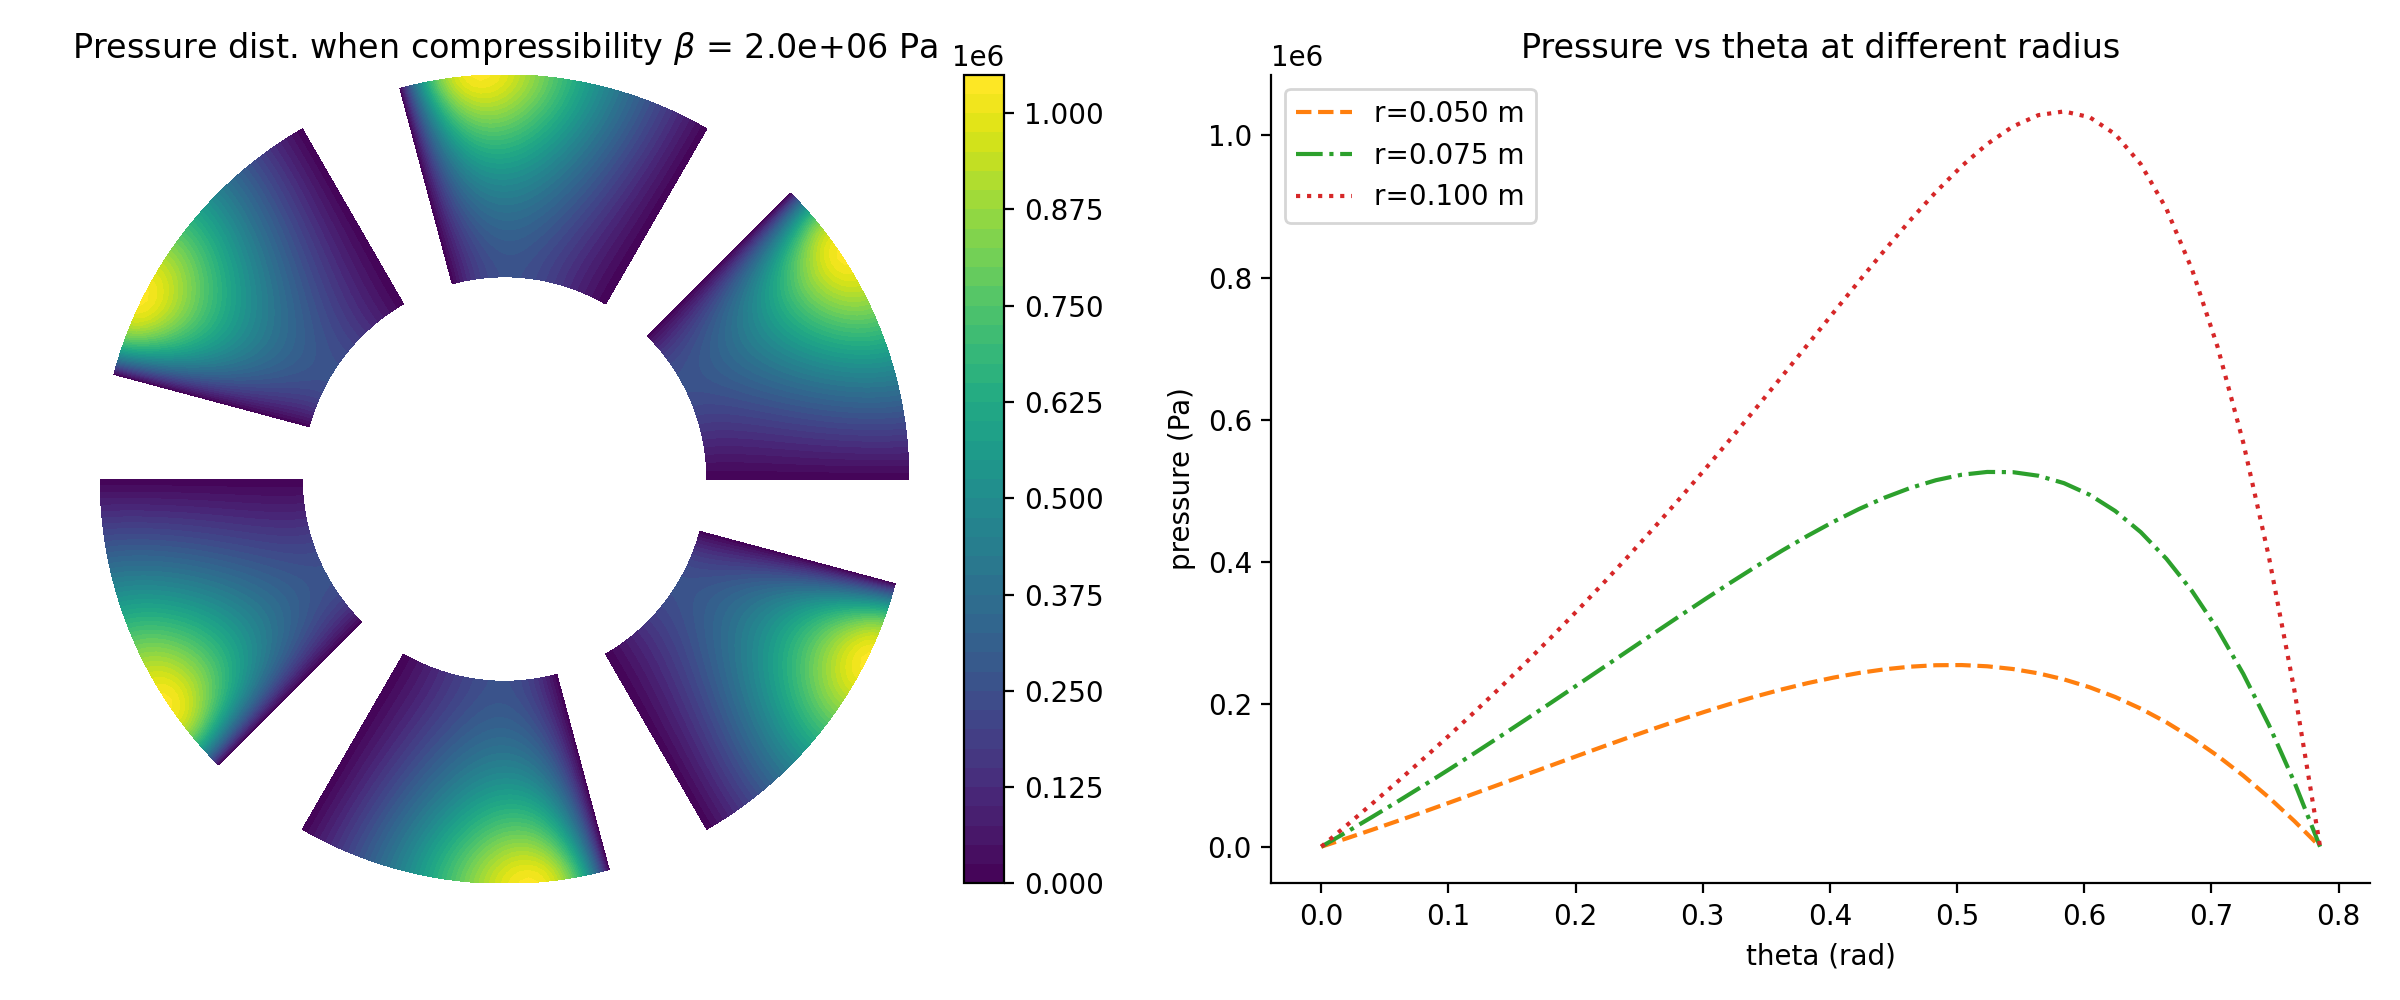
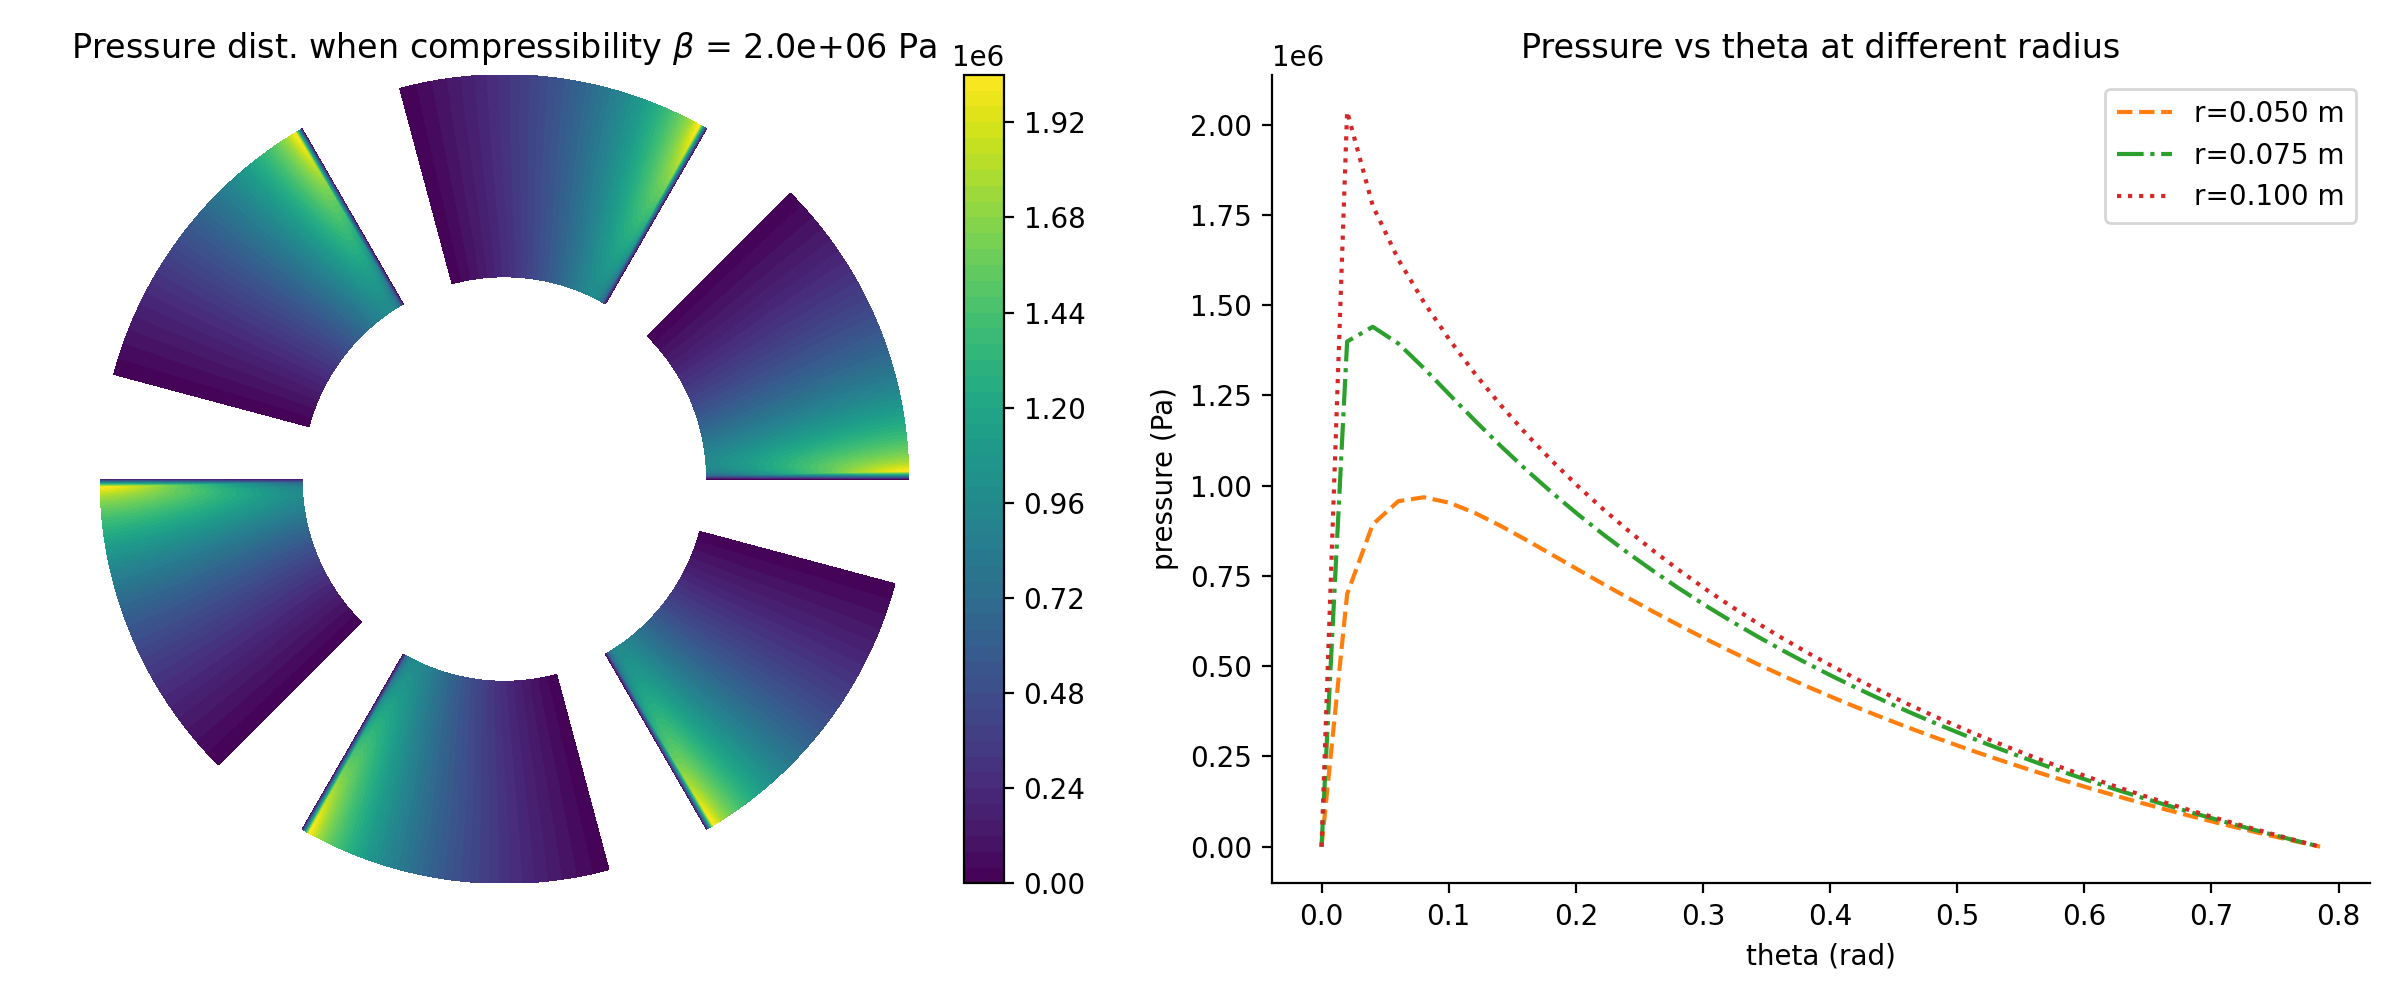
Changed direction, fixed n_sector

diff --git a/src/compressible_flow.py b/src/compressible_flow.py
@@ -73,7 +73,7 @@ def compressible_flow(
     dtheta = theta[1] - theta[0]
     L = r_out * Delta_theta
 
-    h_r_theta = lambda r, theta: hL + (hT - hL) * (r * theta / L)
+    h_r_theta = lambda r, theta: hT + (hL - hT) * (r * theta / L)
     idx = lambda i, j: i * Ntheta + j
 
     TH, RR = np.meshgrid(theta, r)
@@ -81,7 +81,7 @@ def compressible_flow(
     H3 = H**3  # Precompute H^3
 
     coef_const = 1 / (12 * mu)
-    dh_dtheta = lambda radius: (hT - hL) * radius / (r_out * Delta_theta)
+    dh_dtheta = lambda radius: (hL - hT) * radius / (r_out * Delta_theta)
     rho_of_p = lambda p: rho_a * np.exp((p - p_a) / beta)
 
     N = Nr * Ntheta
@@ -223,8 +223,8 @@ def compressible_flow(
     # Plot and save results
     fig = plt.figure(figsize=(12, 5))
     ax1 = fig.add_subplot(1, 2, 1)
-    for i in range(6):
-        TH, RR = np.meshgrid(theta + i * np.pi / 3, r)
+    for i in range(n_sector):
+        TH, RR = np.meshgrid(theta + i * 2 * np.pi / n_sector, r)
         X = RR * np.cos(TH)
         Y = RR * np.sin(TH)
         cf = ax1.contourf(
@@ -268,5 +268,5 @@ def compressible_flow(
 
 
 if __name__ == "__main__":
-    compressible_flow(beta=1e6, out_figure="compressible_flow.png")
+    compressible_flow(beta=1e7, out_figure="compressible_flow.png")
     compressible_flow(beta=2e6, out_figure="compressible_flow_2.png")

diff --git a/src/pressure_distribution.py b/src/pressure_distribution.py
@@ -55,7 +55,7 @@ def pressure_distribution(
     dtheta = theta[1] - theta[0]
     L = r_out * Delta_theta
 
-    h_r_theta = lambda r, theta: hL + (hT - hL) * (r * theta / L)
+    h_r_theta = lambda r, theta: hT + (hL - hT) * (r * theta / L)
     idx = lambda i, j: i * Ntheta + j
 
     TH, RR = np.meshgrid(theta, r)
@@ -70,7 +70,7 @@ def pressure_distribution(
     b = np.zeros(N)
 
     coef_const = 1 / (12 * mu)
-    dh_dtheta = lambda radius: (hT - hL) * radius / (r_out * Delta_theta)
+    dh_dtheta = lambda radius: (hL - hT) * radius / (r_out * Delta_theta)
 
     for i in range(Nr):
         ri = r[i]
@@ -159,8 +159,8 @@ def pressure_distribution(
 
     # 2D contour in polar coords mapped to Cartesian
     ax1 = fig.add_subplot(1, 2, 1)
-    for i in range(6):
-        TH, RR = np.meshgrid(theta + i * np.pi / 3, r)
+    for i in range(n_sector):
+        TH, RR = np.meshgrid(theta + i * 2 * np.pi / n_sector, r)
         X = RR * np.cos(TH)
         Y = RR * np.sin(TH)
         cf = ax1.contourf(
